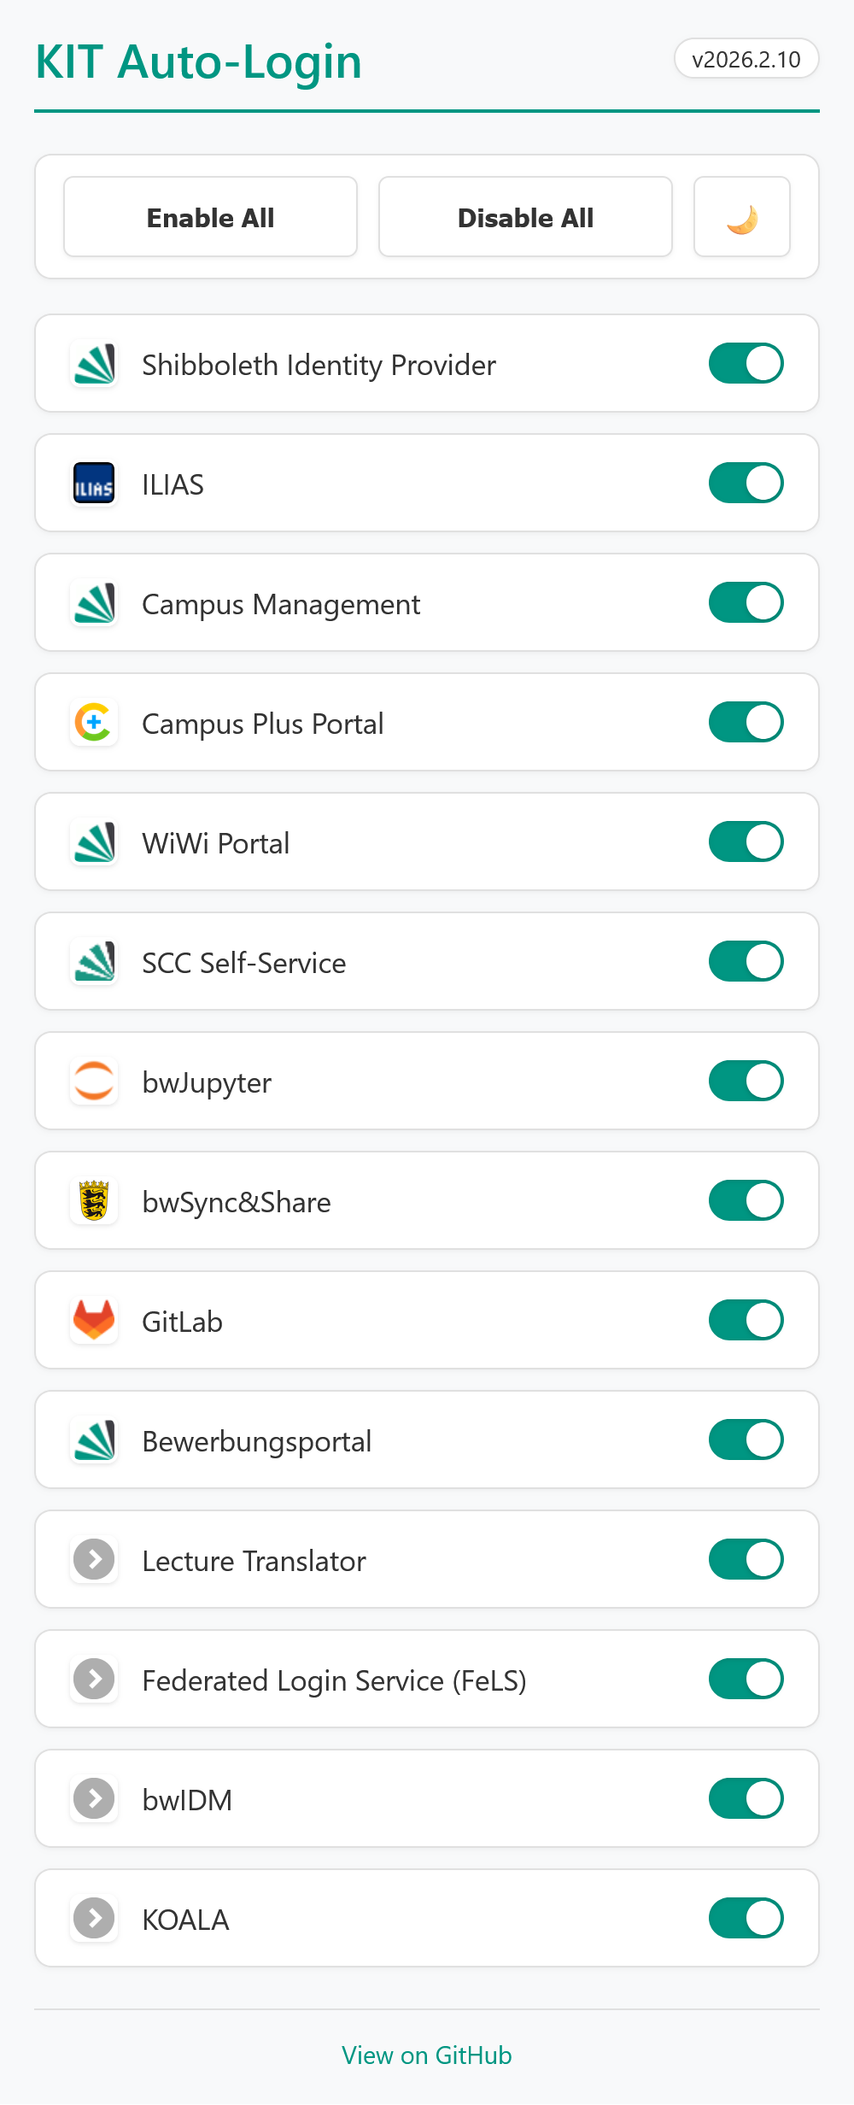
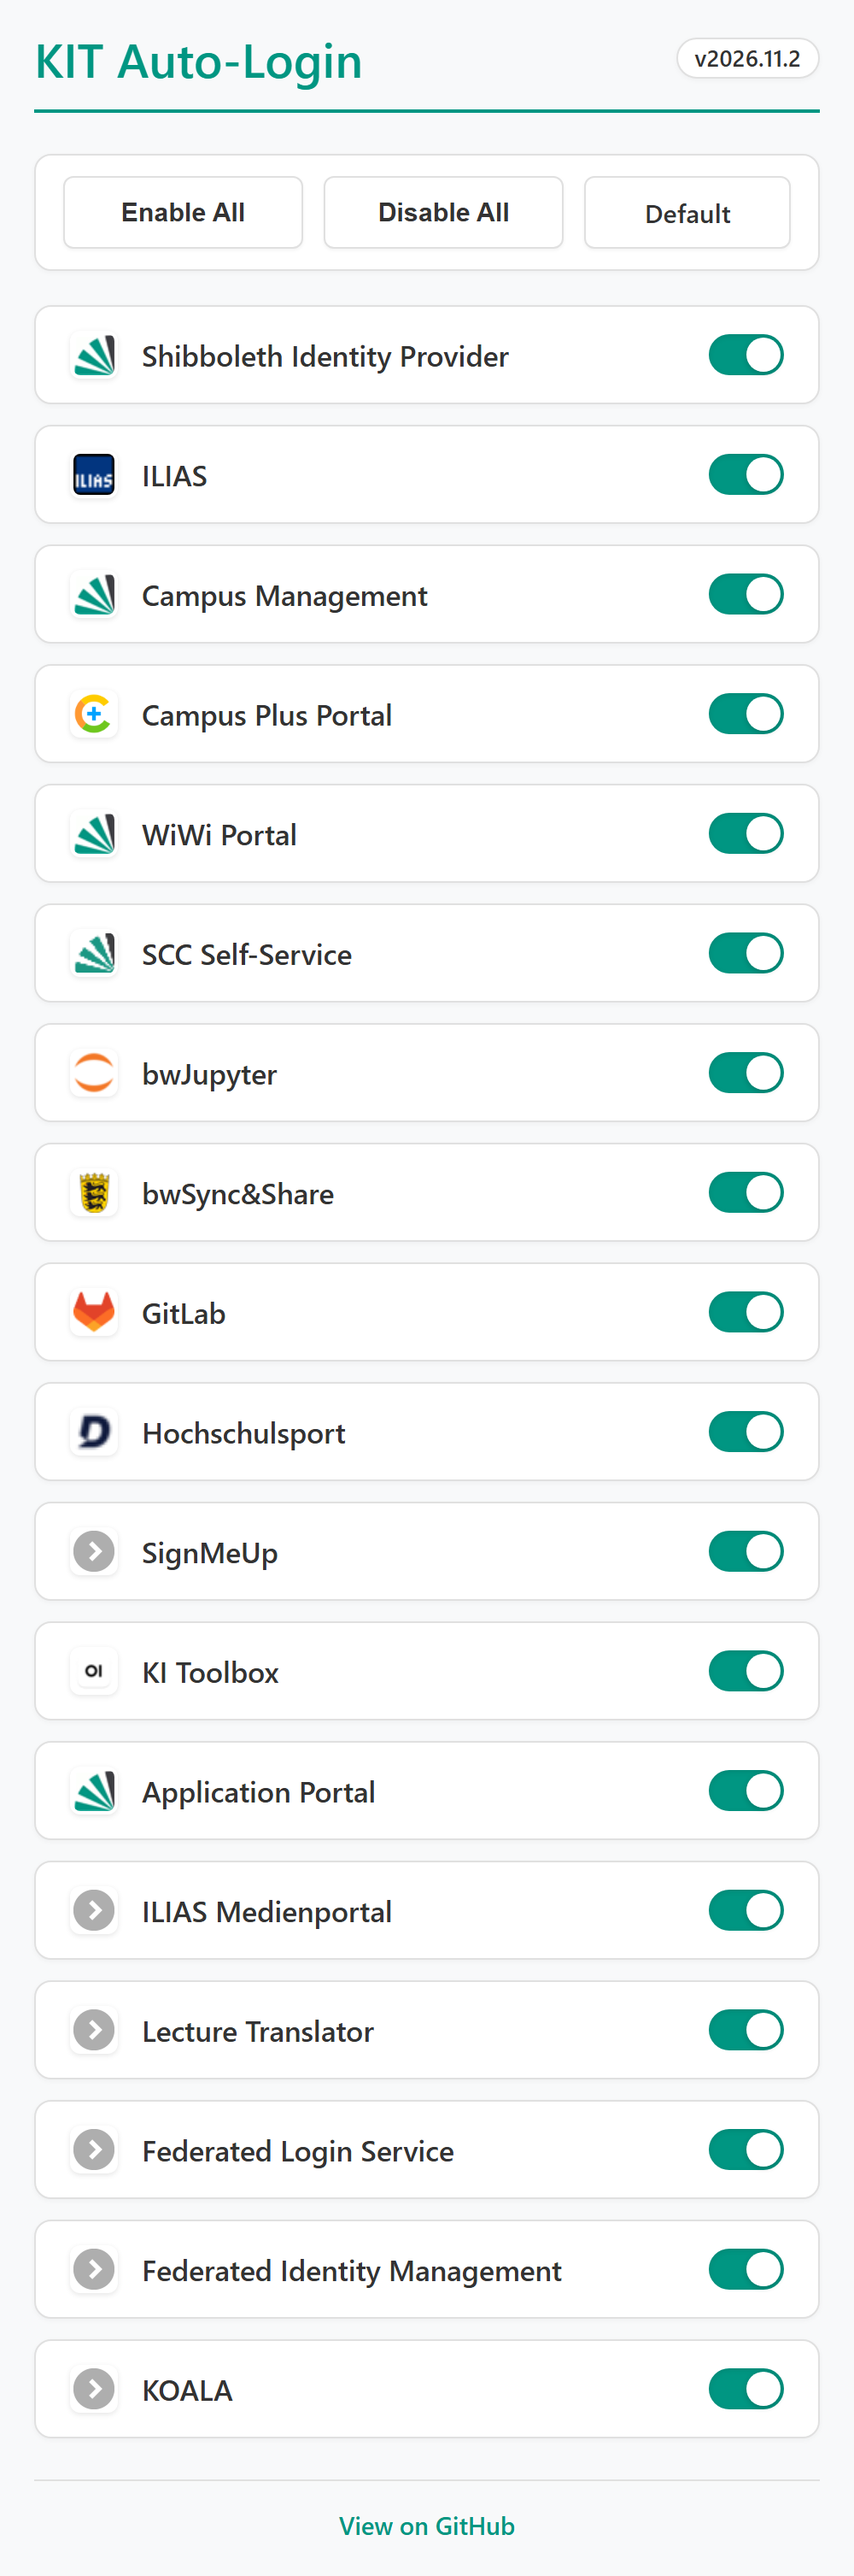
Add automated screenshot generator and bump version to 2026.11.2
- Add .github/scripts/update-screenshots.js to regenerate light/dark options screenshots via headless Chrome
- Refresh assets/screenshot_light.png and assets/screenshot_dark.png with all 18 sites and new toolbar
- Bump manifest.json and kit_auto_login.user.js version to 2026.11.2

diff --git a/.github/scripts/update-screenshots.js b/.github/scripts/update-screenshots.js
@@ -1,0 +1,167 @@
+/**
+ * Automatically generates `assets/screenshot_light.png` and `assets/screenshot_dark.png`
+ * from `options/options.html` + `options/options.js` + `scripts/sites.js` using headless Chrome.
+ *
+ * Works with zero npm dependencies by driving a local Chrome/Chromium installation
+ * (`--headless=new --screenshot --force-device-scale-factor=2`).
+ *
+ * Usage:
+ *   node .github/scripts/update-screenshots.js
+ */
+
+const fs = require('fs');
+const os = require('os');
+const path = require('path');
+const { execFileSync } = require('child_process');
+
+const repoRoot = path.resolve(__dirname, '..', '..');
+const manifest = JSON.parse(fs.readFileSync(path.join(repoRoot, 'manifest.json'), 'utf8'));
+
+function findChromeBinary() {
+    const candidates = [
+        process.env.CHROME_PATH,
+        'C:\\Program Files\\Google\\Chrome\\Application\\chrome.exe',
+        'C:\\Program Files (x86)\\Google\\Chrome\\Application\\chrome.exe',
+        'C:\\Program Files (x86)\\Microsoft\\Edge\\Application\\msedge.exe',
+        '/usr/bin/google-chrome',
+        '/usr/bin/chromium-browser',
+        '/usr/bin/chromium',
+        '/Applications/Google Chrome.app/Contents/MacOS/Google Chrome',
+    ].filter(Boolean);
+
+    for (const candidate of candidates) {
+        if (fs.existsSync(candidate)) return candidate;
+    }
+    throw new Error('Could not find Chrome/Chromium binary. Set CHROME_PATH environment variable.');
+}
+
+function buildRenderHtml(isDark) {
+    const optionsHtml = fs.readFileSync(path.join(repoRoot, 'options', 'options.html'), 'utf8');
+    const sitesUrl = 'file:///' + path.join(repoRoot, 'scripts', 'sites.js').replace(/\\/g, '/');
+    const optionsJsUrl = 'file:///' + path.join(repoRoot, 'options', 'options.js').replace(/\\/g, '/');
+    const iconsBaseUrl = 'file:///' + path.join(repoRoot, 'icons', 'sites').replace(/\\/g, '/');
+
+    const mockScript = `
+<script>
+  window.matchMedia = (q) => ({
+    matches: ${isDark ? 'true' : 'false'},
+    addEventListener: () => {},
+  });
+  window.chrome = {
+    runtime: {
+      getManifest: () => (${JSON.stringify({ version: manifest.version, content_scripts: manifest.content_scripts })}),
+    },
+    storage: {
+      sync: {
+        get: () => Promise.resolve({}),
+        set: () => Promise.resolve(),
+      },
+      local: {
+        get: () => Promise.resolve({}),
+        set: () => Promise.resolve(),
+      },
+    },
+    permissions: {
+      contains: () => Promise.resolve(true),
+      request: () => Promise.resolve(true),
+      onAdded: { addListener: () => {} },
+      onRemoved: { addListener: () => {} },
+    },
+    tabs: {
+      query: () => Promise.resolve([]),
+      onActivated: { addListener: () => {} },
+      onUpdated: { addListener: () => {} },
+    },
+  };
+</script>`;
+
+    return optionsHtml
+        .replace('<head>', `<head>${mockScript}<style>html, body { scrollbar-width: none; } ::-webkit-scrollbar { display: none; }</style>`)
+        .replace('../scripts/sites.js', sitesUrl)
+        .replace(
+            '<script src="options.js"></script>',
+            `<script src="${optionsJsUrl}"></script><script>
+              document.addEventListener('DOMContentLoaded', () => {
+                setTimeout(() => {
+                  document.querySelectorAll('img.site-icon').forEach((img) => {
+                    const name = img.getAttribute('src').split('/').pop();
+                    img.src = '${iconsBaseUrl}/' + name;
+                  });
+                }, 50);
+              });
+            </script>`
+        );
+}
+
+function runChrome(chromeBin, args) {
+    execFileSync(chromeBin, args, { stdio: 'ignore' });
+}
+
+function main() {
+    const chromeBin = findChromeBinary();
+    const tmpDir = fs.mkdtempSync(path.join(os.tmpdir(), 'kal-screenshots-'));
+    const profileDir = path.join(tmpDir, 'profile');
+
+    try {
+        // Compute exact height from the number of sites (header + toolbar + 18 cards + footer)
+        // First measure actual document.body.scrollHeight via --dump-dom
+        const probeHtmlPath = path.join(tmpDir, 'probe.html');
+        const probeFileUrl = 'file:///' + probeHtmlPath.replace(/\\/g, '/');
+        const probeHtml = buildRenderHtml(false).replace(
+            '</body>',
+            `<script>setTimeout(() => { const c = document.querySelector('.container'); document.title = 'HEIGHT:' + Math.ceil(c.getBoundingClientRect().height); }, 300);</script></body>`
+        );
+        fs.writeFileSync(probeHtmlPath, probeHtml, 'utf8');
+
+        const domDump = execFileSync(
+            chromeBin,
+            [
+                '--headless=new',
+                '--no-sandbox',
+                '--disable-gpu',
+                '--no-first-run',
+                `--user-data-dir=${profileDir}`,
+                '--allow-file-access-from-files',
+                '--window-size=500,600',
+                '--virtual-time-budget=1000',
+                '--dump-dom',
+                probeFileUrl,
+            ],
+            { encoding: 'utf8', stdio: ['ignore', 'pipe', 'ignore'] }
+        );
+
+        const heightMatch = domDump.match(/<title>HEIGHT:(\d+)<\/title>/);
+        const cssHeight = heightMatch ? parseInt(heightMatch[1], 10) : 1480;
+        const cssWidth = 500;
+
+        for (const mode of ['light', 'dark']) {
+            const isDark = mode === 'dark';
+            const htmlPath = path.join(tmpDir, `options_${mode}.html`);
+            const fileUrl = 'file:///' + htmlPath.replace(/\\/g, '/');
+            const outPath = path.join(repoRoot, 'assets', `screenshot_${mode}.png`);
+
+            fs.writeFileSync(htmlPath, buildRenderHtml(isDark), 'utf8');
+
+            runChrome(chromeBin, [
+                '--headless=new',
+                '--no-sandbox',
+                '--disable-gpu',
+                '--no-first-run',
+                '--hide-scrollbars',
+                `--user-data-dir=${profileDir}`,
+                '--allow-file-access-from-files',
+                '--force-device-scale-factor=2',
+                `--window-size=${cssWidth},${cssHeight}`,
+                '--virtual-time-budget=1000',
+                `--screenshot=${outPath}`,
+                fileUrl,
+            ]);
+
+            console.log(`Updated assets/screenshot_${mode}.png (${cssWidth * 2}x${cssHeight * 2}px)`);
+        }
+    } finally {
+        fs.rmSync(tmpDir, { recursive: true, force: true });
+    }
+}
+
+main();

diff --git a/kit_auto_login.user.js b/kit_auto_login.user.js
@@ -1,6 +1,6 @@
 // ==UserScript==
 // @name        KIT Auto-Login
-// @version     2026.11.1
+// @version     2026.11.2
 // @description Automatically clicks through various KIT login pages (ILIAS, CAS Campus and other services).
 // @author      nicolasjweber
 // @homepageURL https://github.com/nicolasjweber/KIT-Auto-Login
